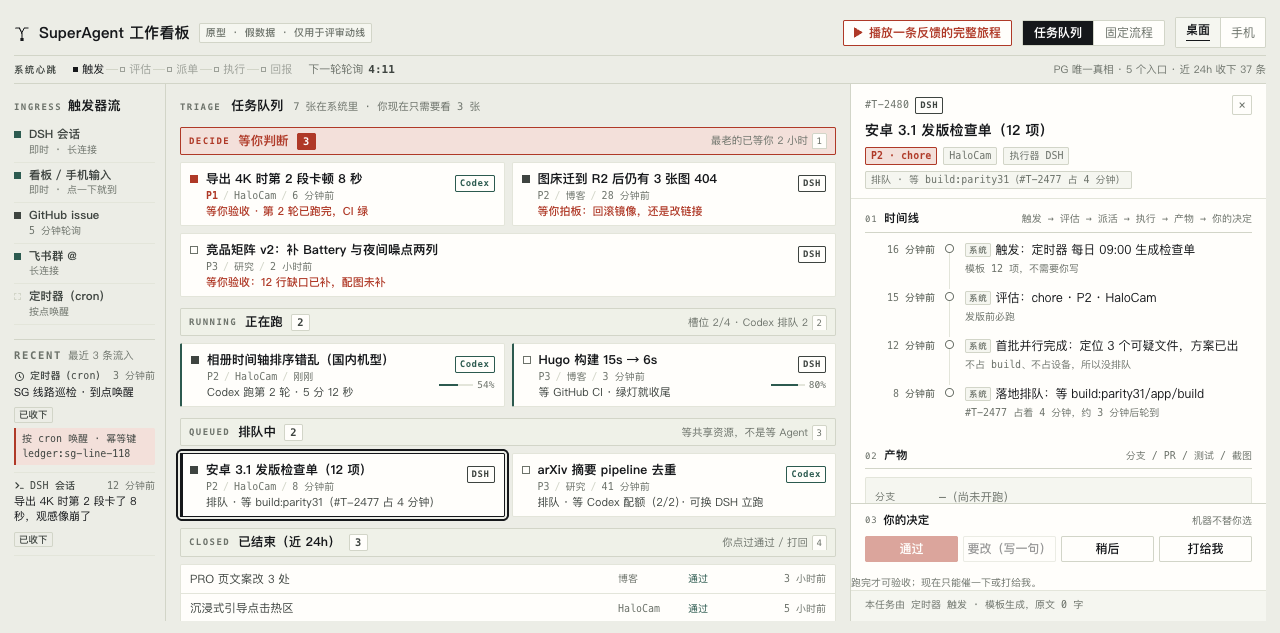
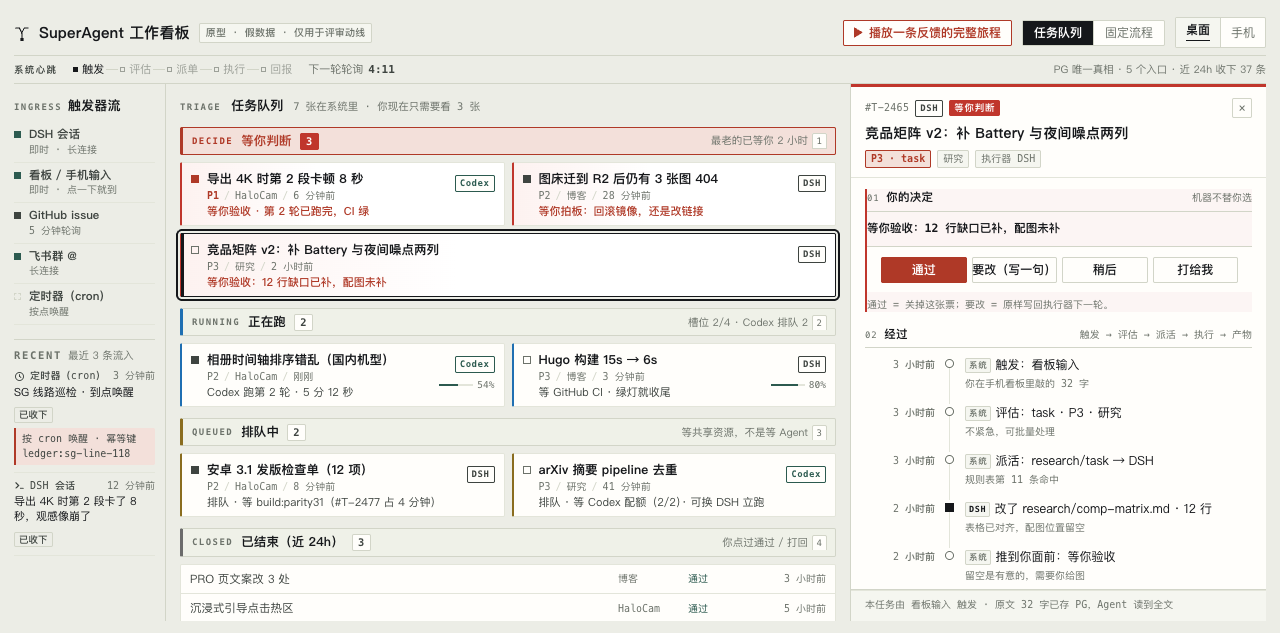
docs(board): 状态色与首屏差异化；GitHub 入口改走已有 webhook
- decide/running/queued 三态在分组、卡片、抽屉三处同色，且首屏内容不同
- 抽屉第一屏：决策按钮 / 进度+最近一步 / 在等哪个 lane
- §4：GitHub 改秒级（hook.unc.la 队列 + 5s 拉取 + 每日 gh 对账）
- 新增 §3.4 视觉语法，说明为何不做横向看板

diff --git a/docs/009-superagent-board/prototype.html b/docs/009-superagent-board/prototype.html
@@ -220,6 +220,25 @@ button{font:inherit;color:inherit;background:none;border:0;padding:0;cursor:poin
   font:10px/1.5 var(--mono);color:var(--muted);
 }
 @keyframes slideIn{from{opacity:0;transform:translateY(-6px)}to{opacity:1;transform:none}}
+/* 状态色：同一种状态在列表、分组、抽屉里始终同一个颜色 */
+:root{--st-decide:#c0362c;--st-running:#1f6fb2;--st-queued:#8a6d1f;--st-done:#6b6b6b}
+.group[data-g="decide"] .gband{border-left:3px solid var(--st-decide);padding-left:9px}
+.group[data-g="running"] .gband{border-left:3px solid var(--st-running);padding-left:9px}
+.group[data-g="queued"] .gband{border-left:3px solid var(--st-queued);padding-left:9px}
+.group[data-g="done"] .gband{border-left:3px solid var(--st-done);padding-left:9px}
+.group[data-g="decide"] .strip{border-left:2px solid var(--st-decide);background:linear-gradient(90deg,#fdf2f0 0%,#fff 42%)}
+.group[data-g="running"] .strip{border-left:2px solid var(--st-running)}
+.group[data-g="queued"] .strip{border-left:2px solid var(--st-queued)}
+.group[data-g="decide"] .count{background:var(--st-decide);color:#fff;border-color:var(--st-decide)}
+.dw-head{border-top:3px solid var(--st,#6b6b6b)}
+.dw-state{font:600 9.5px/1 var(--mono);letter-spacing:.08em;text-transform:uppercase;color:#fff;background:var(--st);padding:3px 5px;border-radius:2px}
+.sec-first{background:color-mix(in srgb, var(--st) 5%, #fff);border-left:2px solid var(--st)}
+.st-line{margin:2px 0 9px;font:600 11.5px/1.5 var(--mono);color:var(--ink)}
+.st-big{display:flex;align-items:center;gap:8px;margin:0 0 8px}
+.st-big i{flex:1;height:4px;background:var(--rule2);display:block;position:relative}
+.st-big i b{position:absolute;inset:0 auto 0 0;background:var(--st);display:block}
+.st-note{margin:0 0 8px;font:10.5px/1.5 var(--mono);color:var(--ink2)}
+
 /* 矮屏时宁可少一条流入，也不要出现半截卡片 */
 @media (max-height:820px){ .inflow:nth-child(3){display:none} .rail-foot{display:none} }
 body.mode-phone .notice{left:auto;right:14px}
@@ -971,6 +990,7 @@ const ICONS = {
 };
 
 const ACTOR = { system: '系统', dsh: 'DSH', codex: 'Codex', henry: 'Henry' };
+const GROUP_LABEL = { decide: '等你判断', running: '正在跑', queued: '排队中', done: '已结束' };
 const PRIO = { 1: 'P1', 2: 'P2', 3: 'P3' };
 
 /* 运行时状态 */
@@ -1155,28 +1175,58 @@ function renderDrawer(isNewTicket) {
   const decided = t.decision ? '<span class="pill">已决定：' + esc(t.decision) + '</span>' : '';
 
   const gate = t.group === 'decide' ? '' : ' disabled title="跑完才可验收"';
-  d.innerHTML =
-    '<div class="dw-head">' +
-      '<div class="dw-top">' +
-        '<span class="dw-id">#' + t.id + '</span>' +
-        '<span class="ex" data-ex="' + t.exec + '">' + t.exec + '</span>' +
-        '<button class="dw-close" type="button" id="dw-close" aria-label="关闭详情抽屉">×</button>' +
-      '</div>' +
-      '<h3 class="dw-title">' + esc(t.title) + '</h3>' +
-      '<div class="dw-tags">' +
-        '<span class="pill hot">' + PRIO[t.prio] + ' · ' + esc(t.kind) + '</span>' +
-        '<span class="pill">' + esc(t.project) + '</span>' +
-        '<span class="pill">执行器 ' + t.exec + '</span>' +
-        '<span class="pill">' + esc(t.status) + '</span>' + decided +
-      '</div>' +
+  const ST = { decide: '#c0362c', running: '#1f6fb2', queued: '#8a6d1f', done: '#6b6b6b' };
+  d.dataset.g = t.group;
+  d.style.setProperty('--st', ST[t.group] || '#6b6b6b');
+
+  const lastEntry = t.timeline[t.timeline.length - 1] || { x: '', s: '' };
+  const decideBtns =
+    '<div class="decide">' +
+      '<button class="btn btn-primary" type="button" data-act="pass" aria-label="通过这个任务"' + gate + '>通过</button>' +
+      '<button class="btn" type="button" data-act="revise" aria-label="要改，写一句修改意见"' + gate + '>要改（写一句）</button>' +
+      '<button class="btn" type="button" data-act="later" aria-label="稍后再看这个任务">稍后</button>' +
+      '<button class="btn" type="button" data-act="call" aria-label="让系统打电话给我">打给我</button>' +
     '</div>' +
-    '<div class="dw-body">' +
+    '<div class="chg' + (S.revising ? ' is-open' : '') + '" id="chg">' +
+      '<textarea id="chg-text" aria-label="写一句要改的内容" placeholder="写一句要改什么，会原样进执行器的下一轮"></textarea>' +
+      '<div class="chg-row"><button class="btn btn-sm" type="button" id="chg-cancel" aria-label="取消写意见">取消</button>' +
+      '<button class="btn btn-sm btn-primary" type="button" id="chg-send" aria-label="把意见发回去">发回去</button></div>' +
+    '</div>';
+
+  // 每张卡打开后的第一屏，按状态给完全不同的东西——这是"不让人搞混"的关键
+  const firstSec =
+    t.group === 'decide'
+      ? '<div class="sec sec-first" data-s="decide">' +
+          '<div class="sec-h"><span class="n">01</span><h4>你的决定</h4><span class="aside">机器不替你选</span></div>' +
+          '<p class="st-line">' + esc(t.status) + '</p>' +
+          decideBtns +
+          '<p class="gate-hint">通过 = 关掉这张票；要改 = 原样写回执行器下一轮。</p>' +
+        '</div>'
+      : t.group === 'running'
+      ? '<div class="sec sec-first" data-s="running">' +
+          '<div class="sec-h"><span class="n">01</span><h4>正在跑</h4><span class="aside">' + esc(t.exec) + ' 进行中</span></div>' +
+          '<div class="st-line">' + esc(t.status) + '</div>' +
+          '<div class="st-big"><i aria-hidden="true"><b style="width:' + (t.progress || 0) + '%"></b></i><span class="mono">' + (t.progress != null ? t.progress + '%' : '—') + '</span></div>' +
+          '<p class="st-note">最近一步：' + esc(lastEntry.x) + (lastEntry.s ? ' · ' + esc(lastEntry.s) : '') + '</p>' +
+          '<p class="gate-hint">跑完才会进「等你判断」；现在不用管它。</p>' +
+        '</div>'
+      : t.group === 'queued'
+      ? '<div class="sec sec-first" data-s="queued">' +
+          '<div class="sec-h"><span class="n">01</span><h4>在等什么</h4><span class="aside">排队不是等 Agent</span></div>' +
+          '<div class="st-line">' + esc(t.status) + '</div>' +
+          '<p class="gate-hint">可以插队、换执行器，或拆成只做首批（首批不排队）。</p>' +
+        '</div>'
+      : '';
+
+  const n = t.group === 'decide' || t.group === 'running' || t.group === 'queued' ? 2 : 1;
+  const timelineSec =
       '<div class="sec">' +
-        '<div class="sec-h"><span class="n">01</span><h4>时间线</h4><span class="aside">触发 → 评估 → 派活 → 执行 → 产物 → 你的决定</span></div>' +
+        '<div class="sec-h"><span class="n">0' + n + '</span><h4>经过</h4><span class="aside">触发 → 评估 → 派活 → 执行 → 产物</span></div>' +
         '<div class="tl" id="tl">' + tl + '</div>' +
-      '</div>' +
+      '</div>';
+  const prodSec =
       '<div class="sec">' +
-        '<div class="sec-h"><span class="n">02</span><h4>产物</h4><span class="aside">分支 / PR / 测试 / 截图</span></div>' +
+        '<div class="sec-h"><span class="n">0' + (n + 1) + '</span><h4>产物</h4><span class="aside">分支 / PR / 测试 / 截图</span></div>' +
         '<div class="prod">' +
           '<div class="prow"><span class="k">分支</span><div class="v">' +
             (t.artifacts.branch.indexOf('—') === 0
@@ -1192,28 +1242,30 @@ function renderDrawer(isNewTicket) {
           '<div class="tests">' + tests + '</div>' +
           '<div class="shots">' + shots + '</div>' +
         '</div>' +
-      '</div>' +
+      '</div>';
+  const fsSec =
       '<div class="fs-wrap">' +
         '<div class="fs-label"><b>飞书卡片</b> · 推到你手机上的样子</div>' +
         feishuHTML(false) +
+      '</div>';
+
+  d.innerHTML =
+    '<div class="dw-head">' +
+      '<div class="dw-top">' +
+        '<span class="dw-id">#' + t.id + '</span>' +
+        '<span class="ex" data-ex="' + t.exec + '">' + t.exec + '</span>' +
+        '<span class="dw-state">' + esc(GROUP_LABEL[t.group] || '') + '</span>' +
+        '<button class="dw-close" type="button" id="dw-close" aria-label="关闭详情抽屉">×</button>' +
+      '</div>' +
+      '<h3 class="dw-title">' + esc(t.title) + '</h3>' +
+      '<div class="dw-tags">' +
+        '<span class="pill hot">' + PRIO[t.prio] + ' · ' + esc(t.kind) + '</span>' +
+        '<span class="pill">' + esc(t.project) + '</span>' +
+        '<span class="pill">执行器 ' + t.exec + '</span>' + decided +
       '</div>' +
     '</div>' +
-    '<div class="dw-foot">' +
-      '<div class="foot-h"><span class="n">03</span><b>你的决定</b><span style="margin-left:auto;font-size:10px;color:var(--muted)">机器不替你选</span></div>' +
-      '<div class="decide">' +
-        '<button class="btn btn-primary" type="button" data-act="pass" aria-label="通过这个任务"' + gate + '>通过</button>' +
-        '<button class="btn" type="button" data-act="revise" aria-label="要改，写一句修改意见"' + gate + '>要改（写一句）</button>' +
-        '<button class="btn" type="button" data-act="later" aria-label="稍后再看这个任务">稍后</button>' +
-        '<button class="btn" type="button" data-act="call" aria-label="让系统打电话给我">打给我</button>' +
-      '</div>' +
-      (gate ? '<p class="gate-hint">跑完才可验收；现在只能催一下或打给我。</p>' : '') +
-      '<div class="chg' + (S.revising ? ' is-open' : '') + '" id="chg">' +
-        '<textarea id="chg-text" aria-label="写一句要改的内容" placeholder="写一句要改什么，会原样进执行器的下一轮"></textarea>' +
-        '<div class="chg-row"><button class="btn btn-sm" type="button" id="chg-cancel" aria-label="取消写意见">取消</button>' +
-        '<button class="btn btn-sm btn-primary" type="button" id="chg-send" aria-label="把意见发回去">发回去</button></div>' +
-      '</div>' +
-      '<p class="prov">' + esc(t.prov) + '</p>' +
-    '</div>';
+    '<div class="dw-body">' + firstSec + timelineSec + prodSec + fsSec + '</div>' +
+    '<div class="dw-foot"><p class="prov">' + esc(t.prov) + '</p></div>';
 
   if (isNewTicket) {
     const fs = $('.fs-wrap');
